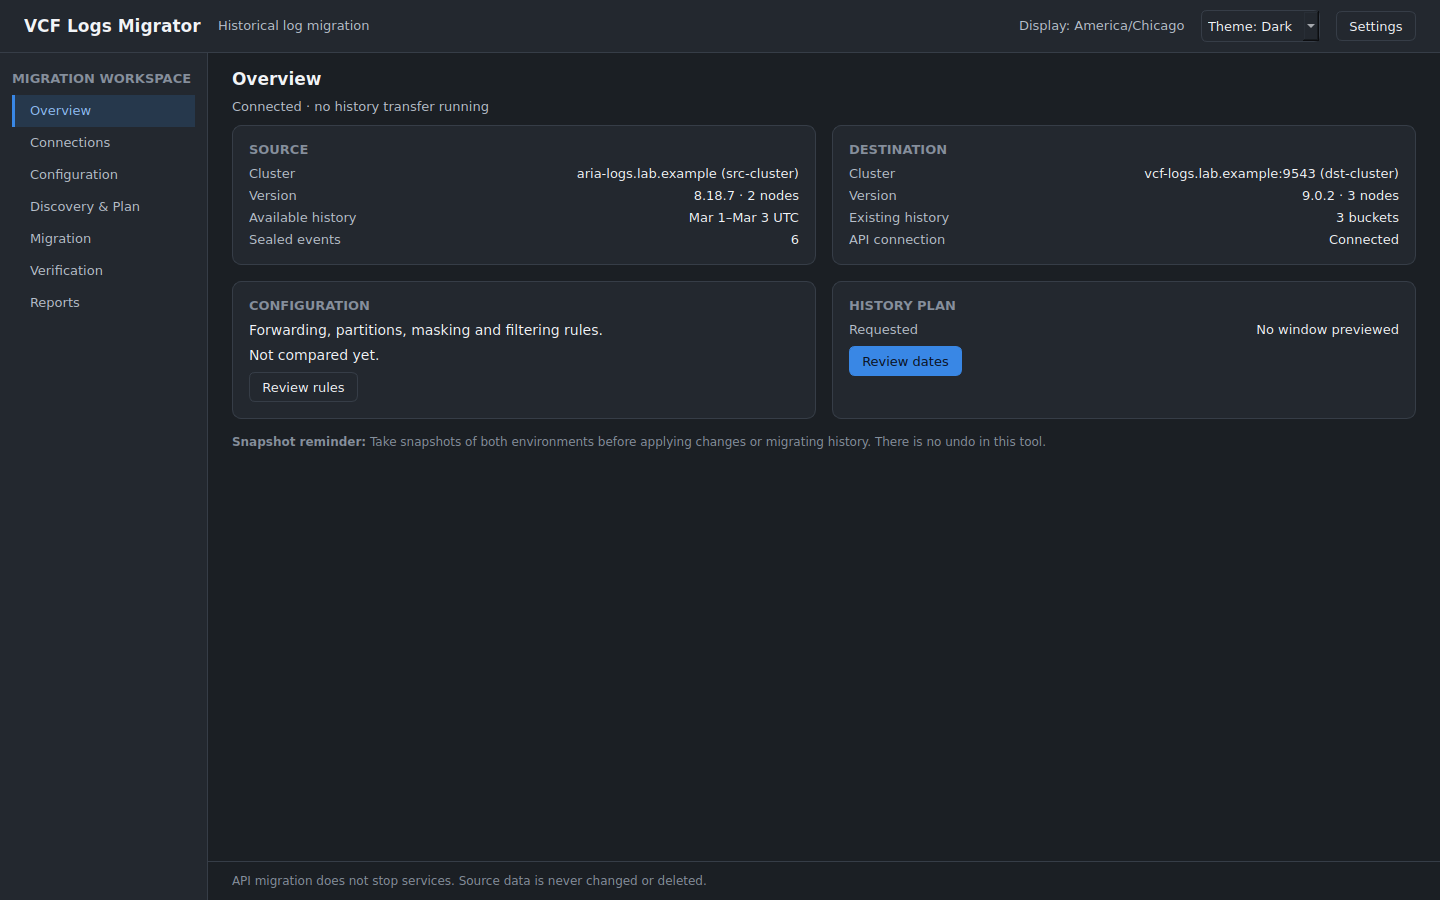
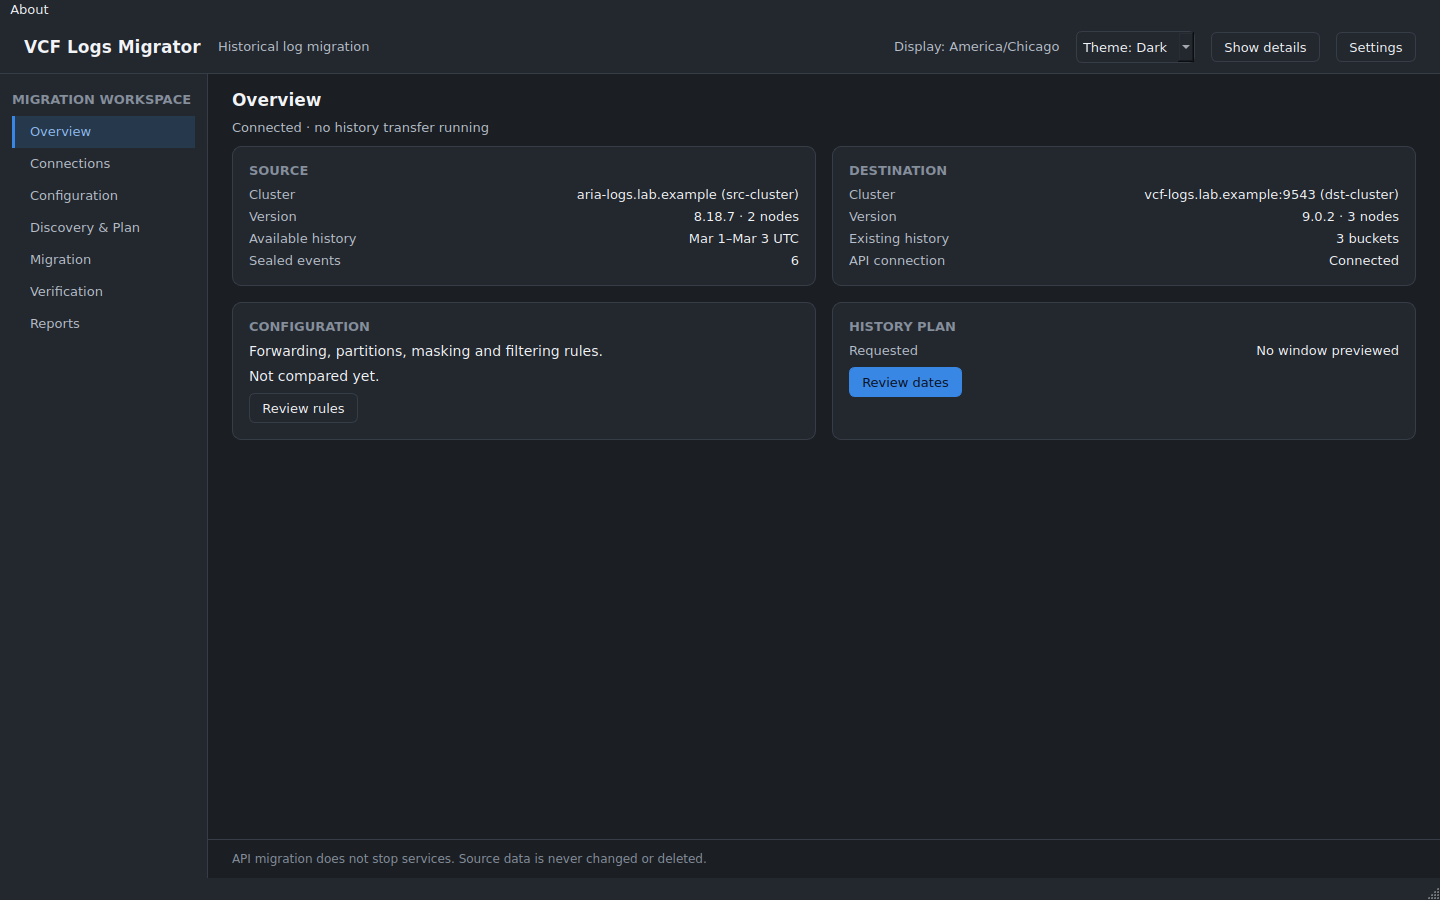
Remove snapshot requirements and operator recovery messaging
Keep the legacy CLI flag hidden and ignored, retain the active-data acknowledgment, and refresh simulator captures. Verified with 353 tests, installed CLI smoke checks, lint, links and visual inspection.

diff --git a/tests/test_cli_journal.py b/tests/test_cli_journal.py
@@ -12,7 +12,8 @@ from logs_migrate.models import ACTIVE_ACK
 
 
 @pytest.mark.parametrize("fixture", ["sealed-populated.fixture", "sealed-911.fixture"])
-def test_cli_persistent_flow_and_offline_reports(tmp_path, capsys, fixture):
+@pytest.mark.parametrize("compat_flags", [[], ["--ack-backup"]])
+def test_cli_persistent_flow_and_offline_reports(tmp_path, capsys, fixture, compat_flags):
     base = ["--journal", str(tmp_path / "j.sqlite"), "--fixture", str(FIXTURES / fixture)]
     assert main([*base, "partitions"]) == 0
     assert json.loads(capsys.readouterr().out)["missing"] == []
@@ -21,7 +22,7 @@ def test_cli_persistent_flow_and_offline_reports(tmp_path, capsys, fixture):
         == 0
     )
     run = json.loads(capsys.readouterr().out)
-    assert main([*base, "copy", run["id"], "--ack-backup", "--ack-active", ACTIVE_ACK]) == 0
+    assert main([*base, "copy", run["id"], *compat_flags, "--ack-active", ACTIVE_ACK]) == 0
     assert json.loads(capsys.readouterr().out)["task"]["status"] == "running"
     api_only = [
         "--fixture",
@@ -42,7 +43,9 @@ def test_cli_persistent_flow_and_offline_reports(tmp_path, capsys, fixture):
     offline = ["--journal", str(tmp_path / "j.sqlite"), "report", run["id"]]
     assert main([*offline, "--format", "json"]) == 0
     report = json.loads(capsys.readouterr().out)
-    assert report["run"]["backup_ack"] and report["run"]["backup_verified"] is False
+    assert report["run"]["active_ack"] is True
+    assert "backup" not in json.dumps(report).lower()
+    assert "snapshot" not in json.dumps(report).lower()
     assert main(offline) == 0
     assert "verified_success" in capsys.readouterr().out
 
@@ -113,3 +116,12 @@ def test_connection_fault_exits_as_operation_failed_not_missing_prerequisite(tmp
     code = main(["--journal", str(tmp_path / "j.sqlite"), "--fixture", str(fixture), "discover"])
     assert code == 7
     assert json.loads(capsys.readouterr().err)["error"] == "connection_failed"
+
+
+def test_copy_help_hides_legacy_backup_flag(capsys):
+    with pytest.raises(SystemExit) as result:
+        main(["copy", "--help"])
+    assert result.value.code == 0
+    help_text = capsys.readouterr().out
+    assert "--ack-backup" not in help_text
+    assert "--ack-active" in help_text

diff --git a/tests/test_engine.py b/tests/test_engine.py
@@ -9,7 +9,7 @@ from conftest import FIXTURES, execute, planned
 from logs_migrate.adapters.simulated import SimulatedEnvironment
 from logs_migrate.engine import Engine
 from logs_migrate.errors import Code, MigrationError
-from logs_migrate.models import ACTIVE_ACK, DAY, Counts, Policy, Window
+from logs_migrate.models import DAY, Counts, Policy, Window
 from logs_migrate.ports import Transfer
 from logs_migrate.reporting import markdown
 from logs_migrate.verification import reconcile, stable_counts
@@ -325,12 +325,11 @@ def test_stop_does_not_relabel_a_completed_task(rig):
     assert not any(t["operation"] == "cancel" for t in env.data["trace"])
 
 
-@pytest.mark.parametrize("backup,active", [(False, ACTIVE_ACK), (True, "")])
-def test_required_attestations_precede_api_post(rig, backup, active):
+def test_active_acknowledgment_precedes_api_post(rig):
     engine, env, _ = rig
     run = planned(engine)
     with pytest.raises(MigrationError) as error:
-        engine.run(run["id"], backup_ack=backup, active_ack=active)
+        engine.run(run["id"])
     assert error.value.code == Code.ACK
     assert not env.data["trace"]
 
@@ -561,8 +560,8 @@ def test_signoff_report_formats_utc_dates_and_ranges(rig):
     assert "2026-03-01 to 2026-03-03" in text
     block = text.split("\n\n")[2]
     assert "Last day covered only by sealed buckets right now" in block
-    assert "Snapshot acknowledgment" in block
-    assert text.count("Snapshot acknowledgment") == 1
+    assert "snapshot" not in text.lower()
+    assert "backup" not in text.lower()
     assert text.count("Last day covered only by sealed buckets") == 1
     assert "| Day | Source |" in text
 

diff --git a/src/logs_migrate/engine.py b/src/logs_migrate/engine.py
@@ -274,8 +274,6 @@ class Engine:
                 "created_at": self.clock.now(),
                 "plan": plan,
                 "plan_hash": digest(plan),
-                "backup_ack": False,
-                "backup_verified": False,
                 "active_ack": False,
                 "query_policy": asdict(policy or Policy()),
                 "verification": {"outcome": Verification.PENDING.value, "complete": False},
@@ -308,10 +306,10 @@ class Engine:
 
     @safe_boundary
     def run(self, run_id, *, backup_ack=False, active_ack=""):
+        # Retained as an ignored keyword for callers of older versions.
         with self._exclusive():
             run = self.journal.load(run_id)
             require(run.get("schema_version") == 2, Code.SCHEMA)
-            require(backup_ack, Code.ACK)
             require(not run["plan"]["active_skipped"] or active_ack == ACTIVE_ACK, Code.ACK)
             require(
                 all(
@@ -366,9 +364,8 @@ class Engine:
                         raise
                     run["baseline"] = None
                 run["partial_days"] = partial_days(source, fresh)
-            run["backup_ack"] = True
             run["active_ack"] = active_ack == ACTIVE_ACK
-            self._audit(run, "transfer_authorized", {"snapshot_verified": False})
+            self._audit(run, "transfer_authorized")
             # Protect against duplicate sends even if the POST response is lost. This is an
             # overlap record, not a locally maintained task state or a destination-wide lock.
             self.journal.record_transfer(run)

diff --git a/src/logs_migrate/cli.py b/src/logs_migrate/cli.py
@@ -14,7 +14,6 @@ from .engine import Engine
 from .errors import Code, MigrationError, require
 from .journal import Journal
 from .models import Verification, Window, parse_time
-from .planning import BACKUP_ACK
 from .reporting import markdown, report_data
 from .security import ENVIRONMENT, Credentials, harden_process
 from .trust import TrustRequired, TrustStore, shared_ssh_keys
@@ -170,7 +169,7 @@ def parser():
     plan.add_argument("--until", required=True, help="Exclusive end, ISO 8601 with timezone")
     copy = sub.add_parser("copy", help="Start the API task once; status monitors it")
     copy.add_argument("run_id", type=uuid_arg)
-    copy.add_argument("--ack-backup", action="store_true", help=BACKUP_ACK)
+    copy.add_argument("--ack-backup", action="store_true", help=argparse.SUPPRESS)
     copy.add_argument(
         "--ack-active", default="", help="Exact acknowledgment that latest data is skipped"
     )
@@ -409,7 +408,7 @@ def main(argv=None):
         elif args.command == "plan":
             result = engine.plan(Window(parse_time(args.since), parse_time(args.until)))
         elif args.command == "copy":
-            result = engine.run(args.run_id, backup_ack=args.ack_backup, active_ack=args.ack_active)
+            result = engine.run(args.run_id, active_ack=args.ack_active)
         elif args.command == "status":
             result = engine.status(args.run_id)
         elif args.command == "stop":

diff --git a/src/logs_migrate/gui/pages/plan.py b/src/logs_migrate/gui/pages/plan.py
@@ -33,7 +33,6 @@ from ..widgets import (
     row,
     set_banner,
 )
-from . import SNAPSHOT
 
 # Both codes mean the selection is already on the destination; neither is retried.
 BLOCKED = {"overlapping_transfer", "bucket_identity_conflict"}
@@ -186,7 +185,6 @@ class PlanPage(Page):
         self.split_holder = QWidget()
         self.split_holder.setLayout(self.split)
         layout.addWidget(self.split_holder)
-        layout.addWidget(label(SNAPSHOT, "hint", wrap=True, rich=True))
         self.ack = QCheckBox("I understand you aren't going to copy the latest data.")
         self.ack.setAccessibleName("Latest-data acknowledgment")
         self.ack.stateChanged.connect(self._ack_changed)
@@ -533,7 +531,7 @@ class PlanPage(Page):
             "Discovery & Plan",
             view["subtitle"]
             if not state.acknowledged or not view["needs_ack"]
-            else "Ready · snapshots reminded · latest-data exclusion acknowledged",
+            else "Ready · latest-data exclusion acknowledged",
         )
         extent = view["extent"] or view["coverage"]
         for widget, text in zip(self.axis_labels, vm.axis_labels(extent), strict=True):

diff --git a/src/logs_migrate/gui/pages/overview.py b/src/logs_migrate/gui/pages/overview.py
@@ -4,7 +4,6 @@ from PySide6.QtWidgets import QStackedWidget, QVBoxLayout, QWidget
 
 from .. import viewmodel as vm
 from ..widgets import KeyValues, Page, button, card, columns, label, row
-from . import SNAPSHOT
 
 
 class OverviewPage(Page):
@@ -44,10 +43,7 @@ class OverviewPage(Page):
                 button("Connect environments", "primary", lambda: self.app.show_page("connections"))
             )
         )
-        before, before_layout = card("Before you begin")
-        before_layout.addWidget(label(SNAPSHOT, "hint", wrap=True, rich=True))
         layout.addWidget(connect)
-        layout.addWidget(before)
         layout.addStretch(1)
         return holder
 
@@ -81,7 +77,6 @@ class OverviewPage(Page):
         )
         plan_layout.addStretch(1)
         layout.addWidget(columns(config, plan))
-        layout.addWidget(label(SNAPSHOT, "hint", wrap=True, rich=True))
         return holder
 
     def refresh(self) -> None:

diff --git a/src/logs_migrate/planning.py b/src/logs_migrate/planning.py
@@ -54,12 +54,6 @@ def capacity(destination: Cluster, buckets: tuple[Bucket, ...]) -> dict:
     }
 
 
-BACKUP_ACK = (
-    "No undo: migrated data stays on the destination. Snapshot the destination before "
-    "continuing (snapshotting the source too is optional)."
-)
-
-
 def build_plan(source: Cluster, destination: Cluster, window: Window) -> dict:
     compatible(source, destination)
     if not destination.history_complete:
@@ -134,7 +128,6 @@ def build_plan(source: Cluster, destination: Cluster, window: Window) -> dict:
         "partition_diff": partition_diff(source, destination),
         "capacity": space,
         "warnings": [
-            BACKUP_ACK,
             "Active buckets are skipped; newest data is not copied.",
             "Whole buckets can extend beyond the requested date range.",
             "The source root password is sent to the destination for the transfer.",

diff --git a/src/logs_migrate/gui/pages/configuration.py b/src/logs_migrate/gui/pages/configuration.py
@@ -5,7 +5,6 @@ from PySide6.QtWidgets import QCheckBox, QProgressBar, QStackedWidget, QVBoxLayo
 
 from .. import viewmodel as vm
 from ..widgets import Page, Table, banner, button, card, columns, label, row, set_banner
-from . import SNAPSHOT
 
 
 class ConfigurationPage(Page):
@@ -104,7 +103,6 @@ class ConfigurationPage(Page):
         )
         self.filter_warning.hide()
         layout.addWidget(self.filter_warning)
-        layout.addWidget(label(SNAPSHOT, "hint", wrap=True, rich=True))
         return holder
 
     def _results_view(self) -> QWidget:
@@ -140,7 +138,6 @@ class ConfigurationPage(Page):
             )
         )
         layout.addWidget(next_card)
-        layout.addWidget(label(SNAPSHOT, "hint", wrap=True, rich=True))
         return holder
 
     def _showing_results(self) -> bool:

diff --git a/src/logs_migrate/gui/session.py b/src/logs_migrate/gui/session.py
@@ -221,9 +221,7 @@ class Session:
     def start(self, *, run_id: str, acknowledged: bool) -> dict:
         before = len(self.journal.events(run_id))
         try:
-            return self._engine().run(
-                run_id, backup_ack=True, active_ack=ACTIVE_ACK if acknowledged else ""
-            )
+            return self._engine().run(run_id, active_ack=ACTIVE_ACK if acknowledged else "")
         except MigrationError as error:
             events = self.journal.events(run_id)[before:]
             kinds = {event["kind"] for event in events}

diff --git a/src/logs_migrate/reporting.py b/src/logs_migrate/reporting.py
@@ -80,9 +80,6 @@ def markdown(run, events):
         "",
         "- Last day covered only by sealed buckets right now: "
         f"{plan['last_fully_sealed_day'] or 'unknown'}.",
-        "- Snapshot acknowledgment: "
-        + ("operator attested" if run["backup_ack"] else "not given")
-        + "; snapshots were not independently verified.",
         "",
         f"Run: `{run['id']}`",
         "",

diff --git a/src/logs_migrate/gui/viewmodel.py b/src/logs_migrate/gui/viewmodel.py
@@ -590,8 +590,7 @@ def start_state(
         )
     return (
         True,
-        "Start records the snapshot reminder as acknowledged and submits the displayed window; "
-        "there is no undo.",
+        "Start submits the displayed window to the destination API.",
     )
 
 

diff --git a/src/logs_migrate/gui/pages/__init__.py b/src/logs_migrate/gui/pages/__init__.py
@@ -1,6 +1,1 @@
 """Workspace pages. Each renders from AppState and submits engine jobs through the window."""
-
-SNAPSHOT = (
-    "<b>Snapshot reminder:</b> Take snapshots of both environments before applying changes "
-    "or migrating history. There is no undo in this tool."
-)
